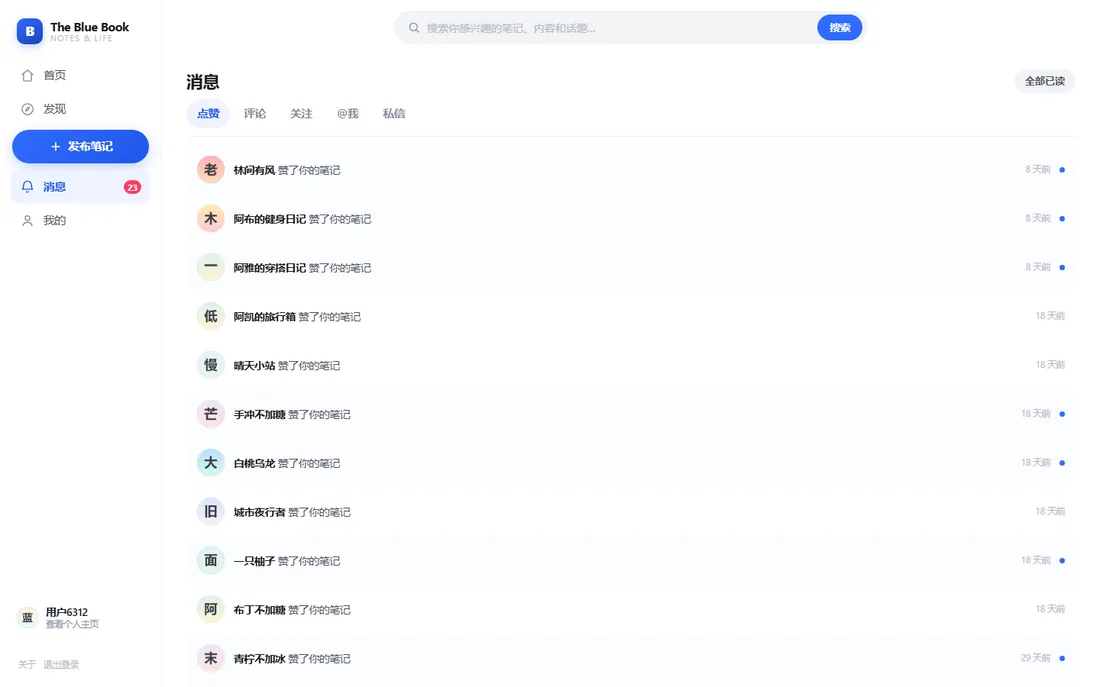
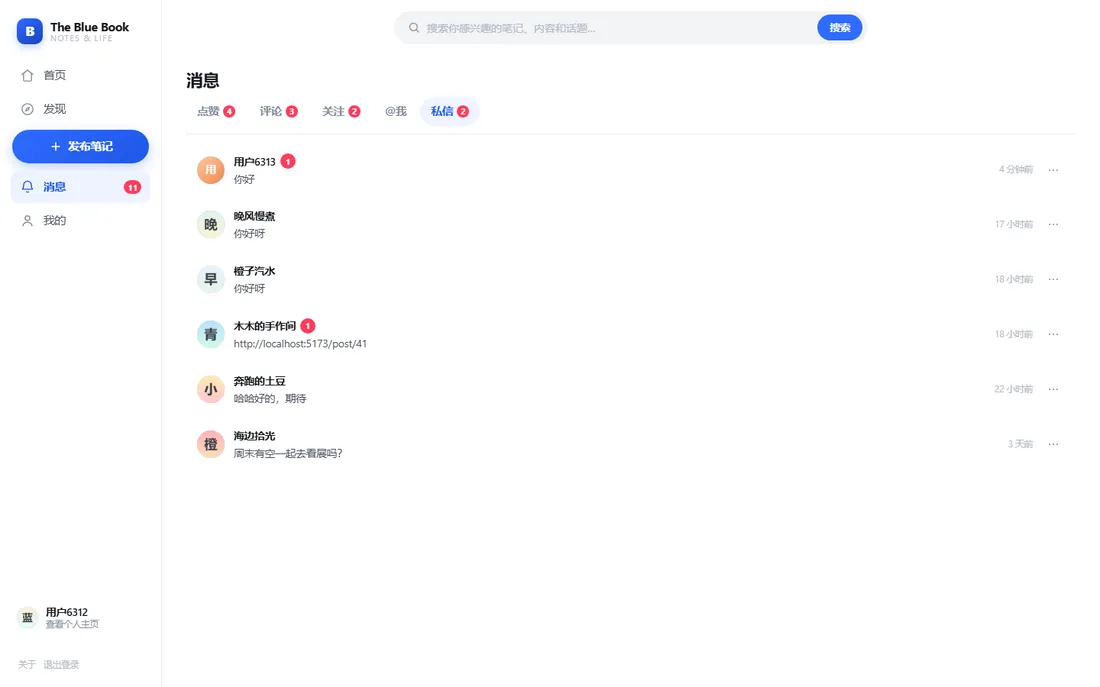
docs: 更新消息页预览图并润色未读角标描述
- 预览图替换为带分类未读角标的实际界面
- 消息中心特性描述改为更准确的表述

diff --git a/README.md b/README.md
@@ -98,7 +98,7 @@
 
 ### 消息通知
 
-- 消息中心：点赞、收藏、评论、关注、@提及分类查看，分类未读角标，查看后自动清除
+- 消息中心：点赞、收藏、评论、关注、@提及分类查看，未读按分类红点提示，查看后自动清除
 - 私信：会话列表、未读角标、气泡聊天、清空记录
 - RabbitMQ 异步通知，不可用时自动降级为同步写入
 
